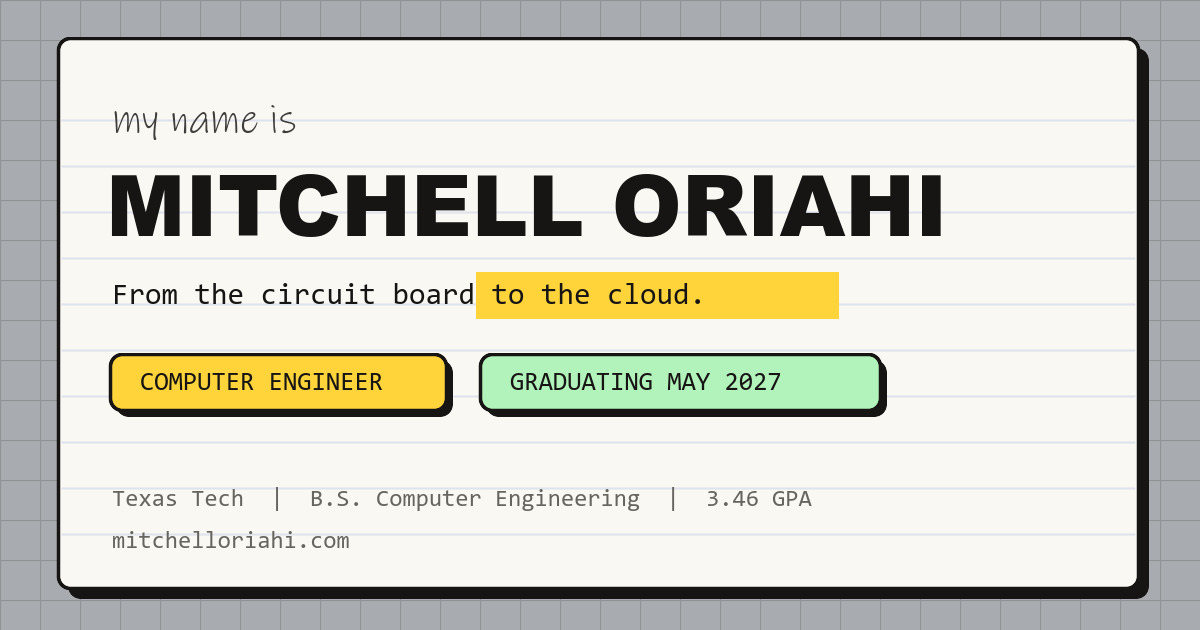
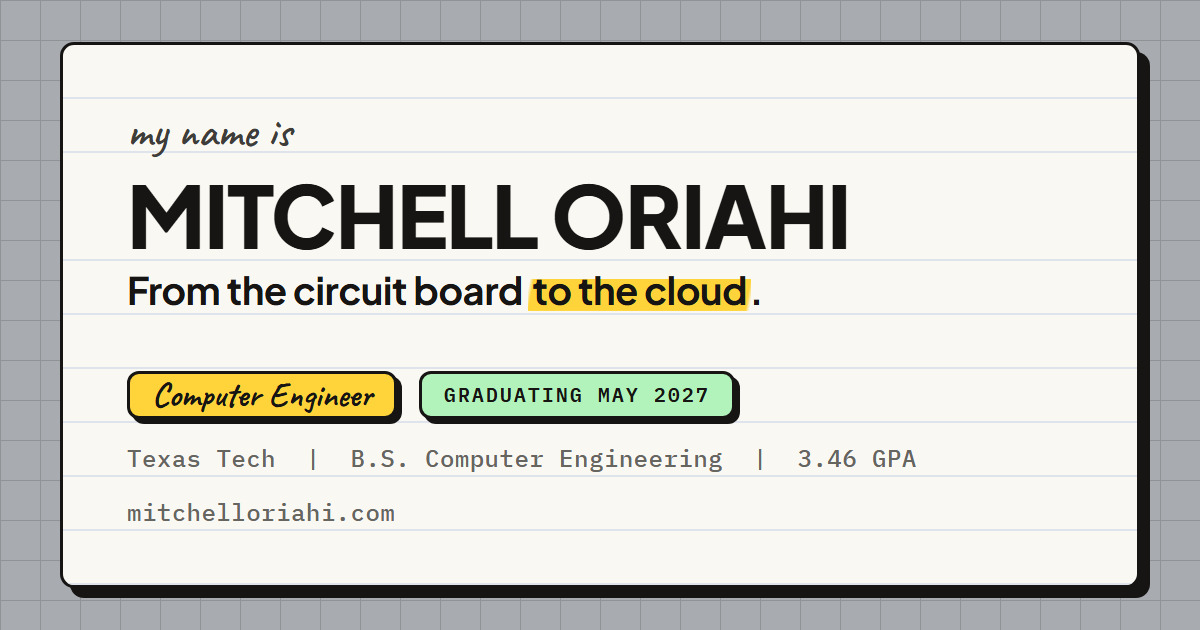
Rebuild the share card from HTML so text sits on the ruled lines
The ImageMagick version placed text by hand-guessed coordinates, so lines
floated between the rules and the to-the-cloud highlight was offset from
the words. The card now lives in tools/og-card.html, uses the site's real
fonts, and snaps every text baseline onto its rule after fonts load. The
highlight is a marker stroke fitted to the words. build-social.ps1 renders
it with headless Chrome; og:image moves to ?v=3 so LinkedIn refetches.

Changed region(s): [[0.0308, 0.0603, 0.9558, 0.9349]]

diff --git a/tools/og-card.html b/tools/og-card.html
@@ -1,0 +1,101 @@
+<!doctype html>
+<html lang="en"><head><meta charset="utf-8">
+<title>og card</title>
+<link rel="preconnect" href="https://fonts.googleapis.com">
+<link rel="preconnect" href="https://fonts.gstatic.com" crossorigin>
+<link href="https://fonts.googleapis.com/css2?family=Caveat:wght@600;700&family=Plus+Jakarta+Sans:wght@700;800&family=IBM+Plex+Mono:wght@500;600&display=block" rel="stylesheet">
+<style>
+    /* Rendered to public/og-image.jpg by tools/build-social.ps1 (1200x630, the
+       size every share preview crops from). Colors mirror src/styles/global.css. */
+    :root {
+        --desk: #a8abaf; --desk-line: #909396;
+        --paper: #f9f8f3; --rule: #dfe3ec;
+        --ink: #161513; --ink-soft: #3e3d3a; --ink-mute: #66655f;
+        --yellow: #ffd43b; --mint: #b2f2bb;
+        --row: 54px;
+    }
+    * { margin: 0; padding: 0; box-sizing: border-box; }
+    body {
+        width: 1200px; height: 630px; overflow: hidden;
+        background-color: var(--desk);
+        background-image:
+            linear-gradient(var(--desk-line) 1px, transparent 1px),
+            linear-gradient(90deg, var(--desk-line) 1px, transparent 1px);
+        background-size: 40px 40px;
+        color: var(--ink);
+    }
+    .paper {
+        position: absolute; left: 60px; top: 42px;
+        width: 1080px; height: 546px;
+        background: var(--paper);
+        border: 3px solid var(--ink); border-radius: 14px;
+        box-shadow: 10px 10px 0 var(--ink);
+        overflow: hidden;
+    }
+    .row {
+        height: var(--row);
+        border-bottom: 2px solid var(--rule);
+        padding-left: 64px;
+        display: flex; align-items: flex-end; gap: 22px;
+    }
+    .row.double { height: calc(var(--row) * 2); }
+    .row.sticker-row { align-items: center; }
+
+    .t { display: inline-block; line-height: 1; white-space: nowrap; }
+    .hand { font-family: 'Caveat', cursive; font-weight: 600; font-size: 44px; color: var(--ink-soft); }
+    .name { font-family: 'Plus Jakarta Sans', sans-serif; font-weight: 800; font-size: 86px; letter-spacing: -1.5px; text-transform: uppercase; }
+    .tag  { font-family: 'Plus Jakarta Sans', sans-serif; font-weight: 700; font-size: 38px; letter-spacing: -0.5px; }
+    .mono { font-family: 'IBM Plex Mono', monospace; font-weight: 500; font-size: 24px; color: var(--ink-mute); letter-spacing: 0.5px; }
+
+    /* A marker stroke: it covers the lower two thirds of the letters instead of
+       boxing the whole line, and hugs the words so the period stays attached. */
+    .hl {
+        background: linear-gradient(100deg, transparent 0.8%, var(--yellow) 2.5%, var(--yellow) 97.5%, transparent 99.2%) no-repeat;
+        background-size: 100% 68%;
+        background-position: 0 88%;
+        padding: 0 0.1em; margin: 0 -0.04em 0 -0.02em;
+    }
+    .sticker {
+        display: inline-flex; align-items: center;
+        height: 48px; padding: 0 22px;
+        border: 3px solid var(--ink); border-radius: 12px;
+        box-shadow: 5px 5px 0 var(--ink);
+        line-height: 1; white-space: nowrap;
+    }
+    .sticker.role { background: var(--yellow); font-family: 'Caveat', cursive; font-weight: 700; font-size: 34px; }
+    .sticker.grad { background: var(--mint); font-family: 'IBM Plex Mono', monospace; font-weight: 600; font-size: 20px; letter-spacing: 2px; }
+</style></head>
+<body>
+    <div class="paper">
+        <div class="row"></div>
+        <div class="row"><span class="t hand" data-gap="5">my name is</span></div>
+        <div class="row double"><span class="t name" data-gap="10">Mitchell Oriahi</span></div>
+        <div class="row"><span class="t tag" data-gap="8">From the circuit board <span class="hl">to the cloud</span>.</span></div>
+        <div class="row"></div>
+        <div class="row sticker-row">
+            <span class="sticker role">Computer Engineer</span>
+            <span class="sticker grad">GRADUATING MAY 2027</span>
+        </div>
+        <div class="row"><span class="t mono" data-gap="8">Texas Tech &nbsp;|&nbsp; B.S. Computer Engineering &nbsp;|&nbsp; 3.46 GPA</span></div>
+        <div class="row"><span class="t mono" data-gap="8">mitchelloriahi.com</span></div>
+        <div class="row"></div>
+    </div>
+    <script>
+        // Sit every line of text on its ruled line: measure the real baseline with a
+        // zero-size probe and shift the text so the baseline lands data-gap px above
+        // the rule. Runs after web fonts load so the metrics are the final ones.
+        document.fonts.ready.then(() => {
+            document.querySelectorAll('.t').forEach(el => {
+                const probe = document.createElement('span');
+                probe.style.cssText = 'display:inline-block;width:0;height:0;vertical-align:baseline';
+                el.prepend(probe);
+                const baseline = probe.getBoundingClientRect().bottom;
+                const rule = el.closest('.row').getBoundingClientRect().bottom - 2;
+                const gap = Number(el.dataset.gap || 6);
+                el.style.transform = `translateY(${(rule - gap) - baseline}px)`;
+                probe.remove();
+            });
+            document.body.dataset.ready = '1';
+        });
+    </script>
+</body></html>
